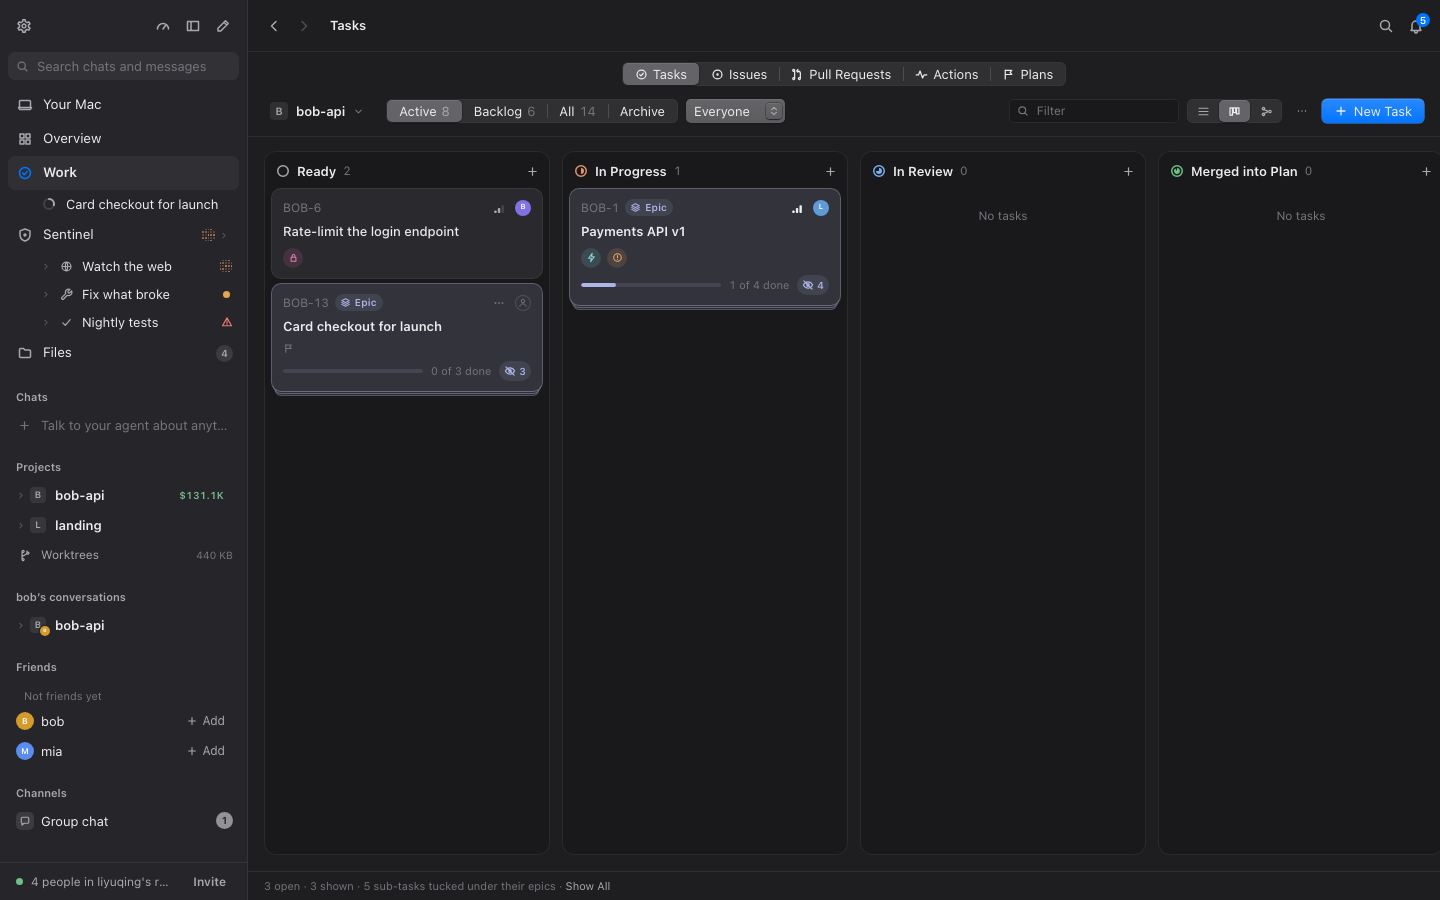
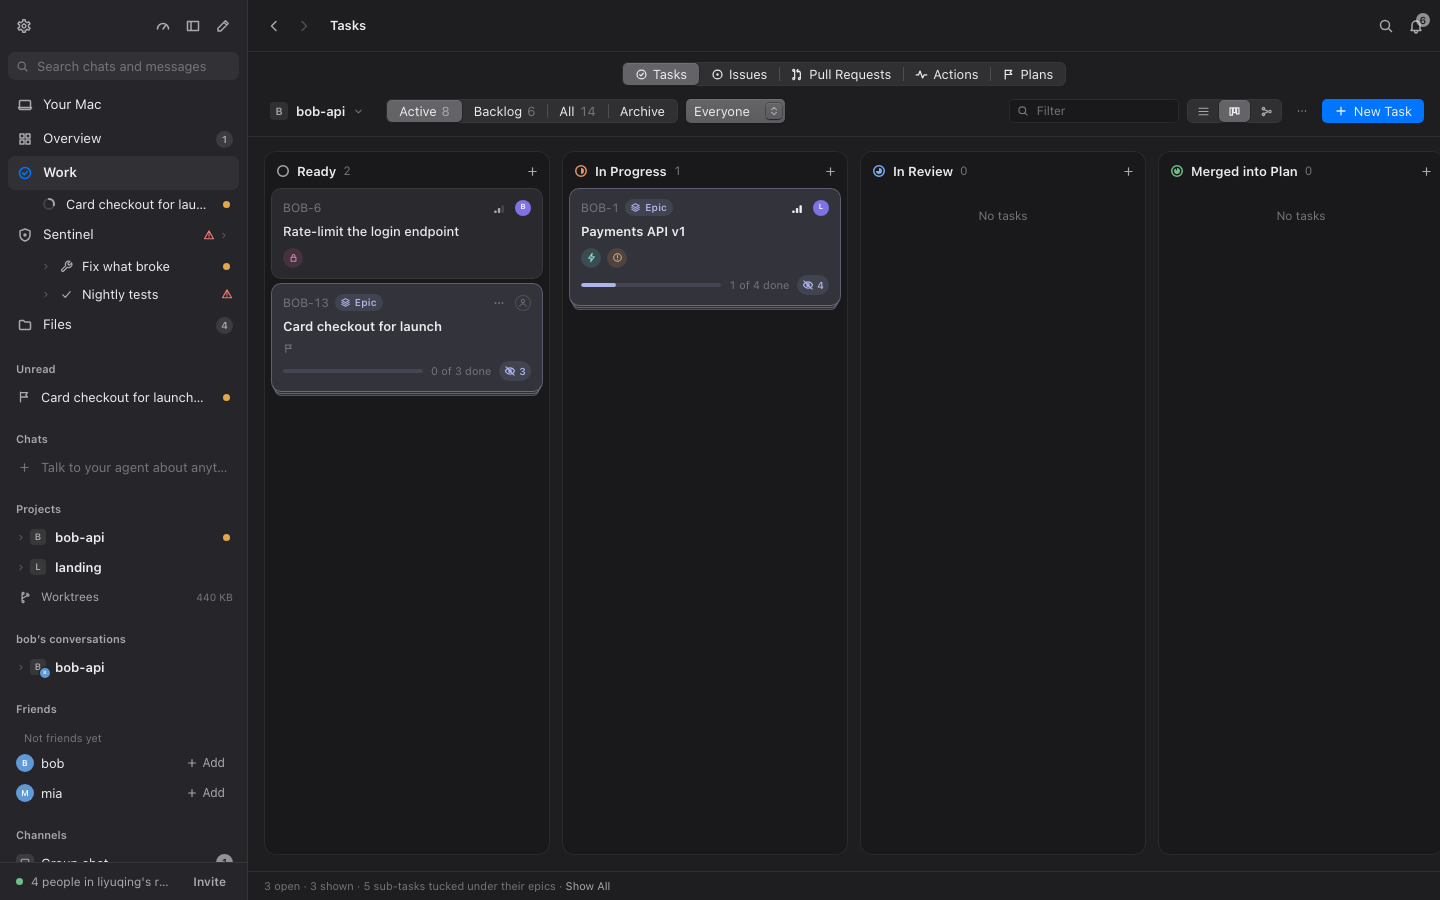
M8 审计修复：铃铛与 info chip 中性、面板 tab 定宽、引导页按 keep-decor、e2e 等条件、最终图重拍
- calm-accent.css：顶栏铃铛计数（_iconBadge_）与侧栏紧急计数同一中性；分支状态的 info 药丸
  （「2 commits · no PR」）不再带强调色。
- calm-tabs.css（新）：沉稳下右侧面板的视图 tab 按内容定宽、居中，不再随面板宽度伸缩；窄面板的
  折叠照旧。tests/fork-calm-tabs.test.ts 核对门控和锚点。
- glow-scan.ts：光晕改写跳过整个 onboarding/（docs/calm-ui.md §7.4 的 keep-decor），
  构建报告 57 层改写、1 层例外。
- project-home-narrow.spec.ts：waitForTimeout(300) 改为等到没有 CSS 过渡在跑。
- finish.md：§5 最终图整组重拍，§2.5 行图按真实状态重拍；§5.3 问题表、§6 合并状态更新；
  新增 §10 记录审计与修复。

Tested-on: macOS f78e1a4b86453b2fe8b232ffa079aec64a6db5de

diff --git a/tests/fork-calm-tabs.test.ts b/tests/fork-calm-tabs.test.ts
@@ -1,0 +1,33 @@
+import { readFileSync } from 'node:fs';
+import path from 'node:path';
+import { describe, expect, it } from 'vitest';
+
+/** fork/calm/calm-tabs.css: the right panel's views keep a fixed width under calm mode. */
+
+const mac = path.join('packages', 'mac', 'src');
+const read = (...parts: string[]): string => readFileSync(path.join(mac, ...parts), 'utf8');
+const stripComments = (css: string): string => css.replace(/\/\*[\s\S]*?\*\//g, '');
+
+describe('calm-tabs.css', () => {
+  const css = stripComments(read('fork', 'calm', 'calm-tabs.css'));
+
+  it('is calm-gated and imported by calm.css', () => {
+    const selectors = [...css.matchAll(/([^{}]+)\{/g)].flatMap((m) => m[1]!.split(',').map((x) => x.trim()));
+    expect(selectors.length).toBeGreaterThan(0);
+    expect(selectors.filter((sel) => !sel.startsWith(':root[data-calm]'))).toEqual([]);
+    expect(read('fork', 'calm', 'calm.css')).toContain("@import './calm-tabs.css';");
+  });
+
+  it('anchors on classes the panel module still defines, and the strip is still a tablist', () => {
+    const anchors = [...new Set([...css.matchAll(/\[class\*='_([A-Za-z][\w-]*)_'\]/g)].map((m) => m[1]!))].sort();
+    expect(anchors).toEqual(['tab', 'tabOn', 'tabs', 'tabsFolded']);
+    const panel = read('layout', 'panel', 'panel.module.css');
+    for (const name of anchors) expect(panel).toMatch(new RegExp(`\\.${name}\\b`));
+    expect(read('layout', 'RightPanel.tsx')).toContain('role="tablist"');
+  });
+
+  it('gives each tab its own width instead of a share of the strip', () => {
+    expect(css).toMatch(/width:\s*auto/);
+    expect(css).toMatch(/flex:\s*0 0 auto/);
+  });
+});

diff --git a/packages/mac/src/fork/calm/calm-accent.css b/packages/mac/src/fork/calm/calm-accent.css
@@ -5,7 +5,7 @@
  * tests/fork-calm-accent.test.ts checks that each one still exists in the upstream source.
  *
  * What stays solid and accent: New Task (tasks), Create PR (workspace and running chat), New
- * Sentinel (Sentinel). What goes neutral: urgent counts, the select's chevron box, the Merge and
+ * Sentinel (Sentinel). What goes neutral: urgent counts, the bell's count, the branch's info pill, the select's chevron box, the Merge and
  * Resume buttons of the needs-you card, and the focus ring's halo.
  */
 
@@ -13,6 +13,17 @@
 :root[data-calm] [class*='_badgeUrgent_'] {
   background: color-mix(in srgb, var(--text) 55%, transparent);
   color: var(--bg);
+}
+
+/* 1b. The bell's count in the toolbar (ui.module.css `.iconBadge`): the same neutral as the urgent counts. */
+:root[data-calm] [class*='_iconBadge_'] {
+  background: color-mix(in srgb, var(--text) 55%, transparent);
+  color: var(--bg);
+}
+
+/* 1c. The branch's state pill in an info tone ("2 commits · no PR"): a state, not an action, so no accent tint. */
+:root[data-calm] [class*='_pill_info_'] {
+  --pill: var(--text-2);
 }
 
 /* 2. The chevron box of a pop-up button: a neutral bezel, the arrows in the secondary text colour. */

diff --git a/tests/fork-calm-accent.test.ts b/tests/fork-calm-accent.test.ts
@@ -39,6 +39,8 @@ describe('calm-accent.css', () => {
   it('finds every upstream class it anchors on, in the module that defines it', () => {
     const home: Record<string, string> = {
       badgeUrgent: read('components', 'ui.module.css'),
+      iconBadge: read('components', 'ui.module.css'),
+      pill_info: read('layout', 'BranchControl.module.css'),
       primary: read('components', 'ui.module.css'),
       merge: read('components', 'ui.module.css'),
       chevrons: read('components', 'select.module.css'),
@@ -48,7 +50,7 @@ describe('calm-accent.css', () => {
       sidebarList: read('network', 'network.module.css'),
     };
     const names = anchorsIn(css);
-    expect(names.sort()).toEqual(['badgeUrgent', 'chevrons', 'footLink', 'footer', 'invite', 'merge', 'primary', 'sidebarList']);
+    expect(names.sort()).toEqual(['badgeUrgent', 'chevrons', 'footLink', 'footer', 'iconBadge', 'invite', 'merge', 'pill_info', 'primary', 'sidebarList']);
     const missing = names.filter((name) => !classes(home[name]!).has(name));
     expect(missing).toEqual([]);
   });

diff --git a/packages/mac/src/fork/calm/calm-tabs.css b/packages/mac/src/fork/calm/calm-tabs.css
@@ -1,0 +1,19 @@
+/*
+ * Calm mode: the right panel's views (Changes, Files, Scratch, Info…) keep a fixed width. Upstream
+ * stretches the strip to the panel (`.tabs { width: 100% }`, each `.tab { flex: 1 1 0 }`), so the
+ * tabs grow and shrink as the panel is resized. Here each tab is as wide as its icon and name, and
+ * the strip sits centred in the panel's head, like the Work page's segmented control. A narrow
+ * panel still folds the names of the tabs you're not on (upstream's `.tabsFolded`), so nothing
+ * overflows. Calm off: upstream as it is. Anchors: layout/panel/panel.module.css
+ * (tests/fork-calm-tabs.test.ts).
+ */
+:root[data-calm] [role='tablist'][class*='_tabs_'] {
+  width: auto;
+  max-width: 100%;
+  margin-inline: auto;
+}
+:root[data-calm] [role='tablist'][class*='_tabs_'] > [class*='_tab_'],
+:root[data-calm] [role='tablist'][class*='_tabsFolded_'] > [class*='_tabOn_'] {
+  flex: 0 0 auto;
+  padding: 0 12px;
+}

diff --git a/packages/mac/e2e/project-home-narrow.spec.ts b/packages/mac/e2e/project-home-narrow.spec.ts
@@ -60,8 +60,8 @@ for (const c of cases) {
     await expect(sidebar(page)).toBeVisible();
     await openHome(page);
     if (c.page) await page.addStyleTag({ content: `[aria-label="bob-api home"] { flex: 0 0 ${c.page}px !important; max-width: ${c.page}px; }` });
-    // Calm mode gives layout changes a 120–200ms transition: let the box finish resizing before it is measured.
-    await page.waitForTimeout(300);
+    // Calm mode gives layout changes a 120–200ms transition: measure once no CSS transition is still running.
+    await page.waitForFunction(() => document.getAnimations().every((a) => !(a instanceof CSSTransition) || a.playState !== 'running'));
     const section = page.getByRole('region', { name: 'Start something' });
     // The demo's projects start from origin/main: the pop-up shows a longer name in its place.
     if (c.branch)

diff --git a/packages/mac/src/fork/calm/glow-scan.ts b/packages/mac/src/fork/calm/glow-scan.ts
@@ -90,8 +90,8 @@ export function findGlows(css: string): Glow[] {
 
 // ---- the rewrite ---------------------------------------------------------------------------------
 
-/** Files the glow rewrite leaves alone: the fork's own, the global styles, and the keep-decor scenes (docs/calm-ui.md §7.4). */
-const SKIP_GLOW_DIRS = ['fork/', 'styles/', 'onboarding/scenes/', 'Wormhole', 'reactbits', 'PixelBurst', 'star-scene', 'call/', 'YourCard'];
+/** Files the glow rewrite leaves alone: the fork's own, the global styles, and the keep-decor paths, onboarding/** included (docs/calm-ui.md §7.4). */
+const SKIP_GLOW_DIRS = ['fork/', 'styles/', 'onboarding/', 'Wormhole', 'reactbits', 'PixelBurst', 'star-scene', 'call/', 'YourCard'];
 
 export function skipGlowFile(file: string): boolean {
   const f = file.replace(/\\/g, '/').replace(/^\.?\/?/, '');

diff --git a/packages/mac/src/fork/calm/calm.css b/packages/mac/src/fork/calm/calm.css
@@ -12,3 +12,4 @@
 @import './calm-accent.css';
 @import './calm-type.css';
 @import './calm-glow.css';
+@import './calm-tabs.css';
